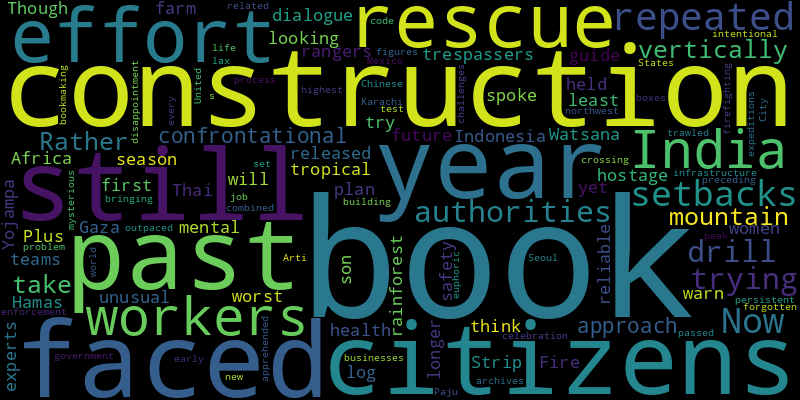
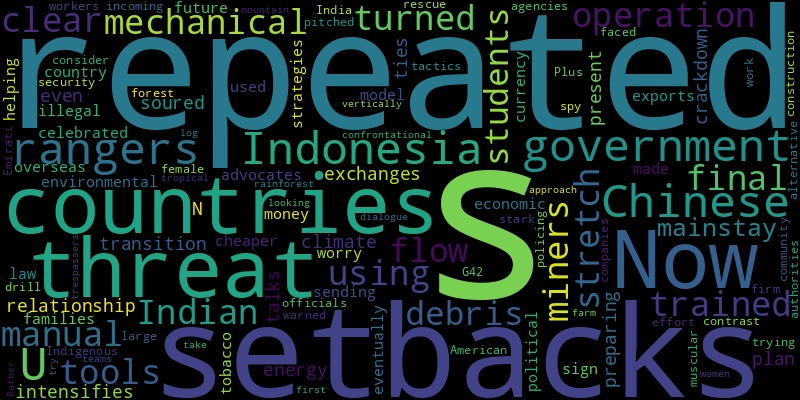
chore(bot): 🙈 auto commit

diff --git a/README.md b/README.md
@@ -2,41 +2,41 @@
 Auto RSS New York Times and Generate Word Cloud
 
 ## New York Times Global News
-* With a four-day truce set to expire, both Israel and Hamas said they are open to extending it to allow more hostages and Palestinian detainees to be freed.
-* Violent waves stirred by hurricane-force winds threatened to tear maritime mines from their moorings in the Sea of Azov and the Black Sea.
-* “Make way for someone else,” a new grass-roots movement demands as women challenge the official argument that the mobilized troops are needed in combat indefinitely.
-* The effort to rescue 41 construction workers in India has faced repeated setbacks. Now the authorities are trying to drill vertically through a mountain.
-* Life in besieged Gaza revolves around a daily struggle to find food and water. With practically no fuel or coal, families are burning doors and window frames to cook what they can scrounge.
+* The extension, and another exchange of hostages and prisoners, raised hopes that more people would be set free and more humanitarian aid would reach people in the Gaza Strip.
 * Rather than take a confrontational approach with trespassers looking to farm or log in a tropical rainforest in Indonesia, teams of women rangers try dialogue first.
+* Violent waves stirred by hurricane-force winds threatened to tear maritime mines from their moorings in the Sea of Azov and the Black Sea.
+* The teacher, Samuel Paty, was beheaded by an Islamist extremist in 2020 after showing caricatures of the Prophet Muhammad to illustrate free speech. The case horrified the nation.
+* “Make way for someone else,” a new grass-roots movement demands as women challenge the official argument that the mobilized troops are needed in combat indefinitely.
+* Life in besieged Gaza revolves around a daily struggle to find food and water. With practically no fuel or coal, families are burning doors and window frames to cook what they can scrounge.
+* The latest releases came after Qatari officials, who helped negotiate the initial deal, said Israel and Hamas had agreed to pause fighting for another two days.
+* The effort to rescue 41 construction workers in India has faced repeated setbacks. Now the authorities are trying to drill vertically through a mountain.
+* The artifacts were on loan to a Dutch museum when Russia invaded in 2014. Ukraine argued that they must be kept out of the aggressor’s hands.
 * Though experts do not think that this season will be the worst yet, they also warn that the past is no longer a reliable guide to the future.
-* An initiative to train hairdressers in mental health counseling is providing relief to hundreds of clients in a region with the world’s least access to therapy.
-* The death of the mercenary group’s leader has created a window of opportunity in the Central African Republic for Western powers to offer an alternative.
-* Governments have declared the practice a human rights violation. But they have made exceptions that are divisive among parents, doctors and social workers.
 
 ![Global](./global.png)
 ## New York Times United States News
+* Jason J. Eaton, 48, of Burlington, was charged with shooting three college students of Palestinian descent on Saturday outside the building where the police said he lives.
 * Portland students have struggled with absenteeism since the pandemic,
 * Pentagon researchers say weapons like shoulder-fired rockets expose troops who fire them to blast waves far above safety limits, but they remain in wide use.
 * Nadia Mohamed, the 27-year-old mayor-elect of St. Louis Park, Minn., says her win is just the first chapter.
-* The attack in an Arizona prison was the latest violent episode involving a high-profile inmate at a federal correctional facility.
-* Migrants are injuring their heads and shattering their limbs as they try to scale barriers along the border with Mexico.
-* The former president’s chief rivals are running low on time to make a statement in Iowa’s caucuses, which could determine whether the Republicans’ nominating contest is seriously contested at all.
-* The three college students were on their way to dinner on Saturday night when the shooting occurred.
-* Winter storm warnings were in effect for parts of Michigan on Sunday, while weather advisories were in effect for parts of the Midwest and Great Lakes region.
-* The fight for control of Congress could be heavily influenced by the already large number of members retiring or seeking higher office.
-* Her campaign will test what political strategists and observers of her rise in politics have said is among her greatest political skills: an ability to massage her message to the moment.
+* Former President Jimmy Carter will emerge from hospice care to join a cast of political heavyweights paying tribute on Tuesday to Mrs. Carter, who died at 96 last week at her home in Plains, Ga.
+* American officials have told the Israelis that a major bombardment risks sparking a humanitarian crisis that overwhelms the world’s capacity to respond.
+* Illegal deforestation for avocado crops points to a blood-soaked trade with the United States involving threats, abductions and killings.
+* “We need protection,” one migrant at the U.S. border said. But the legal system for refugees never envisioned the millions displaced by global warming.
+* The president’s aides quickly jumped on a statement by Donald Trump that he was “seriously looking at alternatives” to the health law.
+* A federal law imposes a mandatory 15-year sentence for possessing a gun after committing three serious drug offenses. But which offenses count?
 
 ![US](./usnews.png)
 ## New York Times Asia News
+* After repeated mechanical setbacks, the Indian operation turned to trained miners using manual tools to clear the final stretch of debris.
+* The flow of students between the countries has been a mainstay of their relationship, even when ties have soured. Now these exchanges, too, are under threat.
+* The government is preparing to present its energy transition plan at the U.N. climate talks as it intensifies a crackdown on environmental advocates.
+* The law, celebrated as a model for other countries, would have eventually made tobacco illegal.
+* Chinese families are sending money overseas, a sign of worry about the country’s economic and political future. But a cheaper currency is also helping exports.
+* The strategies used by the Indigenous community policing alternative are in stark contrast to more muscular tactics pitched by the incoming government.
+* Plus Indonesia’s female forest rangers.
+* American spy agencies have warned about the Emirati firm G42 and its work with large Chinese companies that U.S. officials consider security threats.
 * The effort to rescue 41 construction workers in India has faced repeated setbacks. Now the authorities are trying to drill vertically through a mountain.
 * Rather than take a confrontational approach with trespassers looking to farm or log in a tropical rainforest in Indonesia, teams of women rangers try dialogue first.
-* Plus an unusual mental health plan in Africa.
-* Watsana Yojampa spoke to her son after he was released by Hamas. There are at least 18 Thai citizens still being held hostage in the Gaza Strip.
-* Though experts do not think that this season will be the worst yet, they also warn that the past is no longer a reliable guide to the future.
-* Fire safety is a persistent problem in Karachi, where construction has outpaced firefighting infrastructure and building code enforcement is lax.
-* With some 900 book-related businesses, Paju Book City, northwest of Seoul, is an intentional and euphoric celebration of books and the bookmaking process.
-* Arti passed every test for her government job but still faced disappointment and a new set of challenges.
-* She trawled 56 boxes of forgotten archives, bringing to life mysterious figures from early expeditions on the world’s highest peak.
-* More than 24,000 Chinese citizens have been apprehended crossing into the United States from Mexico in the past year. That is more than in the preceding 10 years combined.
 
 ![Asian](./asian.png)
